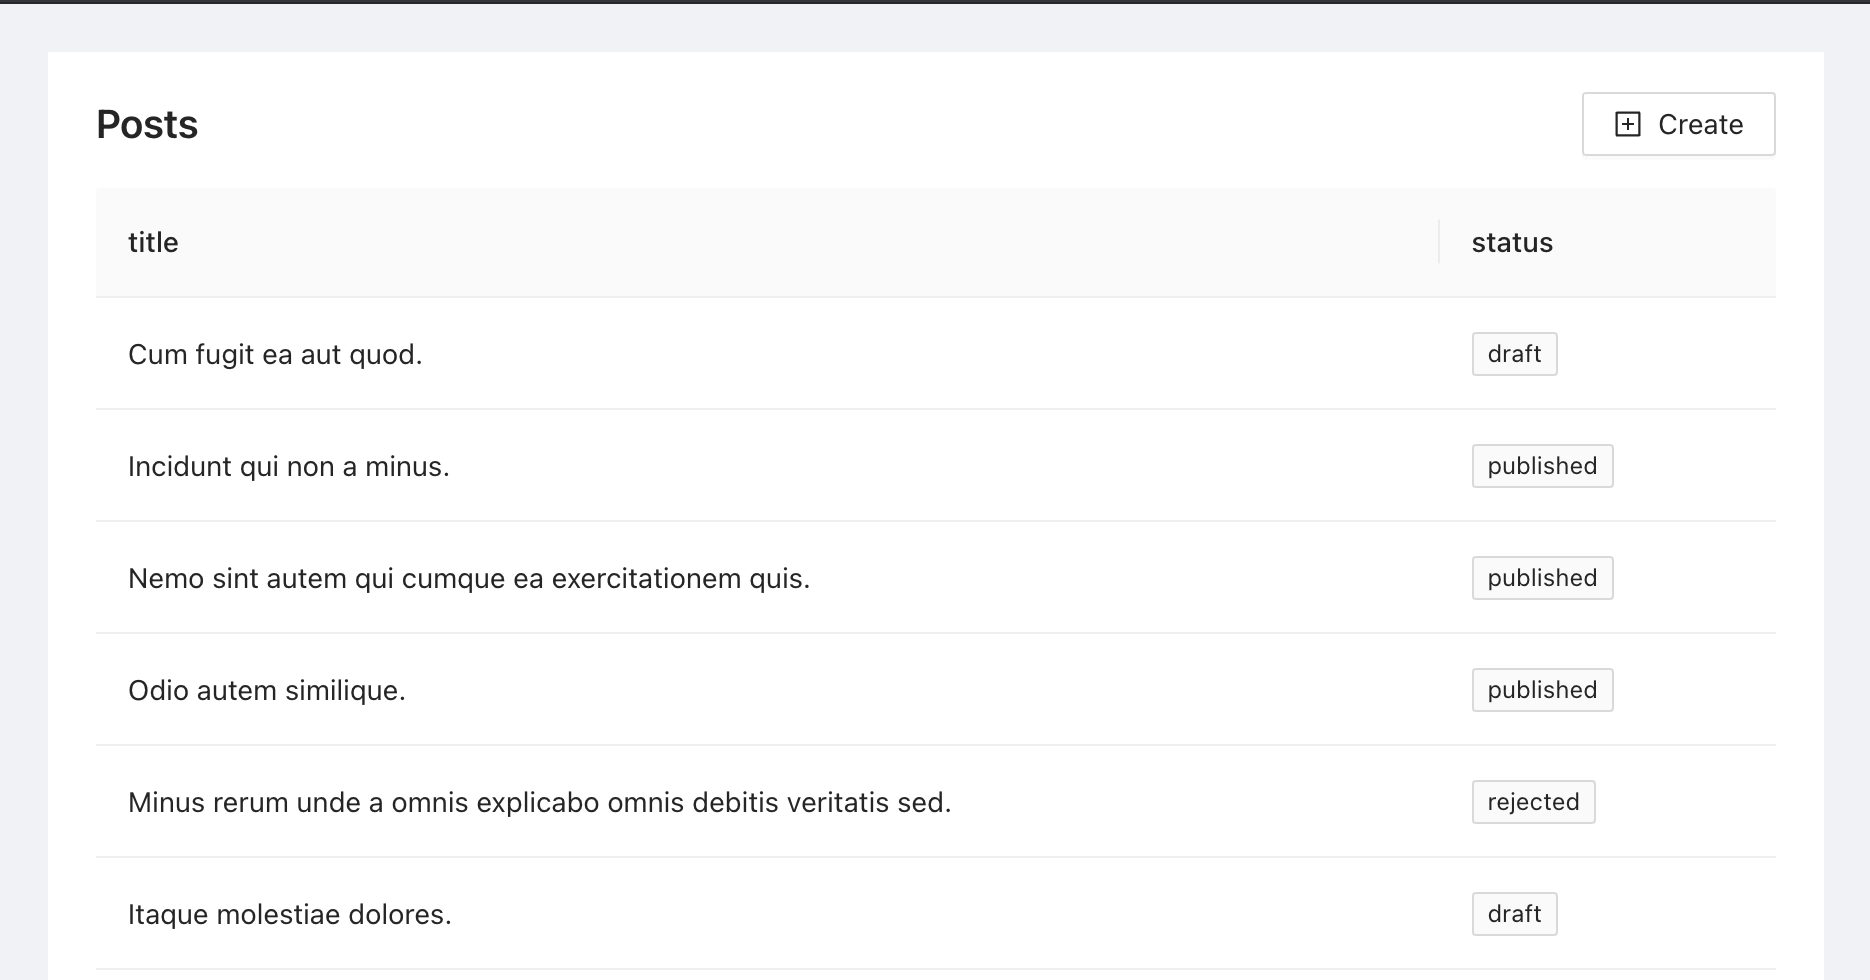
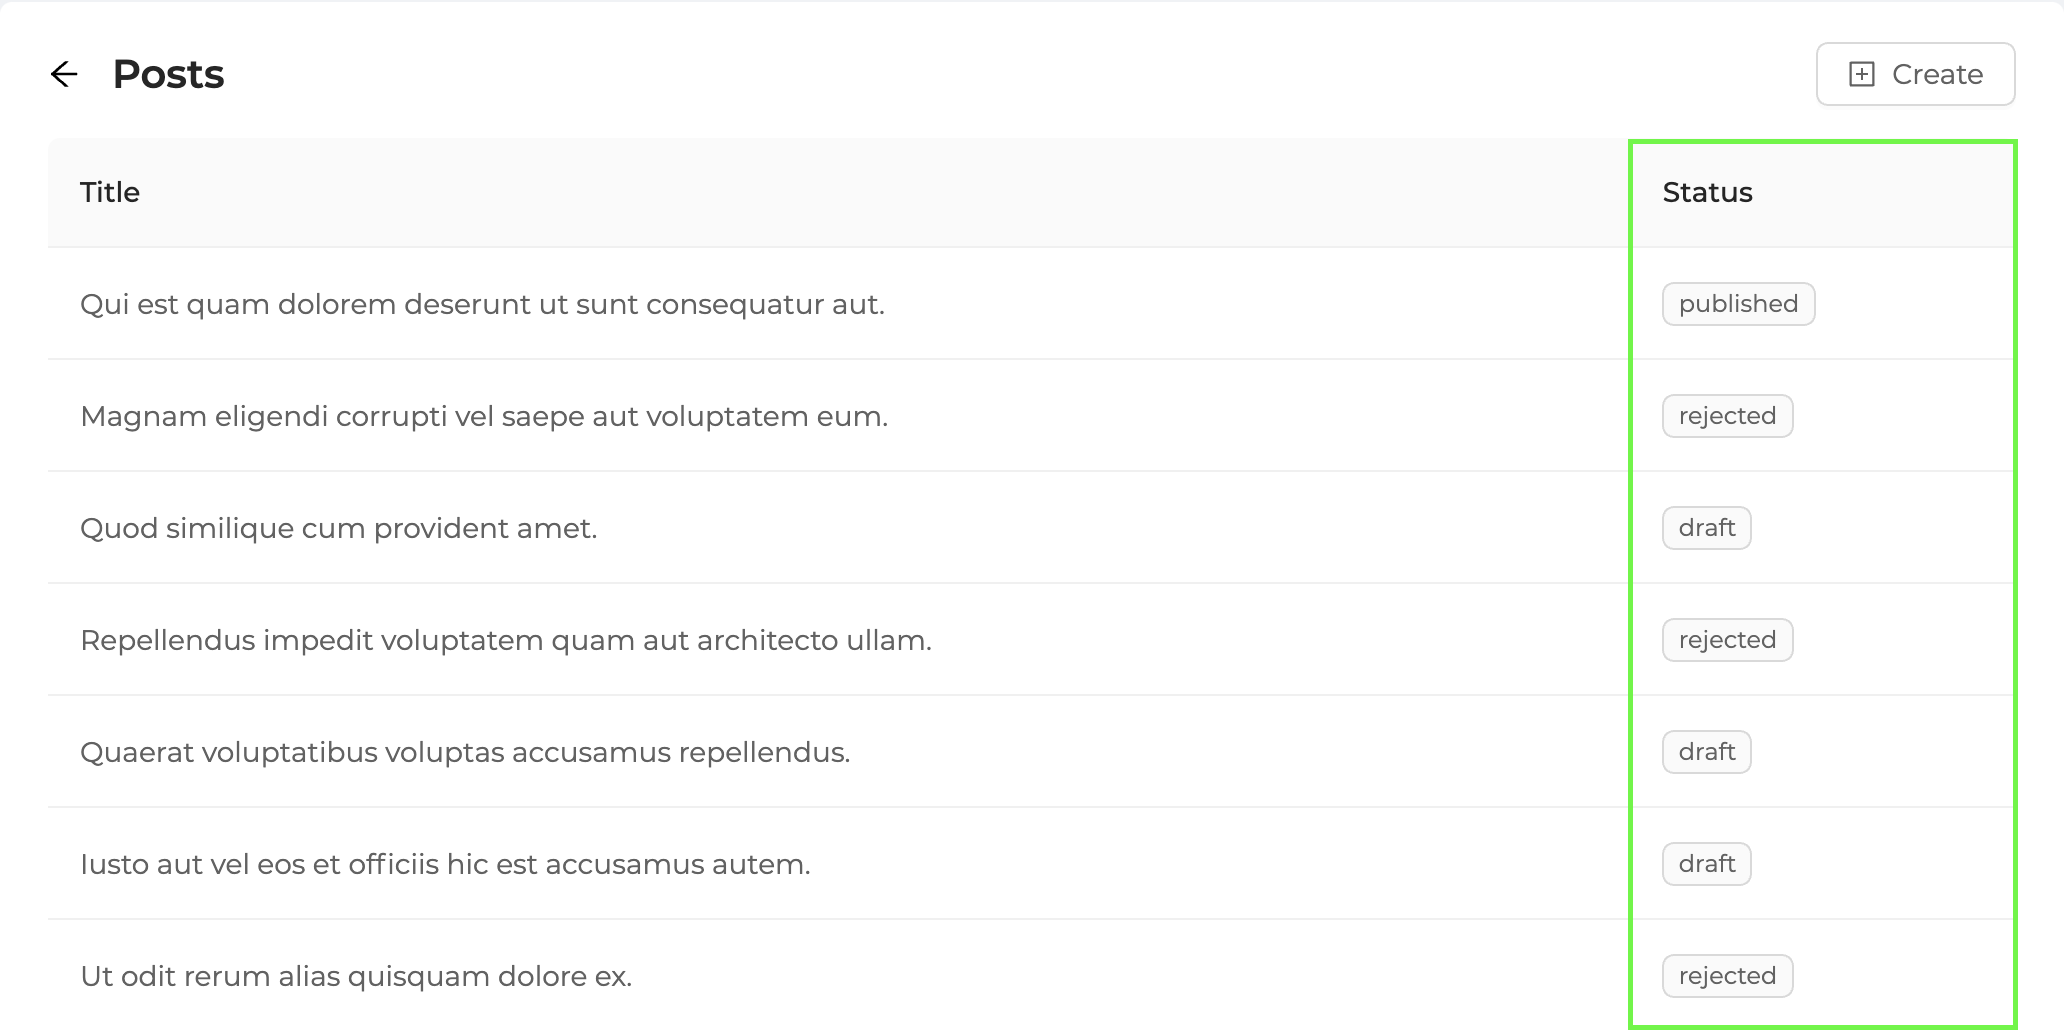
update TagField docs images

diff --git a/documentation/docs/api-references/components/fields/tag.md b/documentation/docs/api-references/components/fields/tag.md
@@ -44,8 +44,13 @@ interface IPost {
 ```
 
 <br/>
-<div>
-    <img src={tagField} alt="A tag field example"/>
+<div class="img-container">
+    <div class="window">
+        <div class="control red"></div>
+        <div class="control orange"></div>
+        <div class="control green"></div>
+    </div>
+    <img src={tagField} alt="TagField" />
 </div>
 
 ## API Reference
